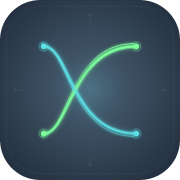
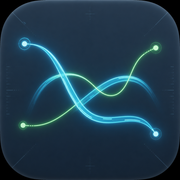
fix: 商标改用选定的 F 成图，不再用扁平矢量代替
登录页、favicon、README 直接用那张石板蓝 + 光纤光迹的成图。矢量稿画不出同样的光晕和丝束，观感对不上。

diff --git a/apps/web/src/components/WeaveMark.tsx b/apps/web/src/components/WeaveMark.tsx
@@ -30,7 +30,7 @@ export function WeaveIcon({ size = 56 }: { size?: number }) {
   return (
     <img
       className="weave-icon"
-      src="/brand/designweave.svg"
+      src="/brand/designweave.png"
       width={size}
       height={size}
       alt=""

diff --git a/README.md b/README.md
@@ -1,7 +1,7 @@
 # DesignWeave
 
 <p align="center">
-  <img src="branding/designweave.svg" width="128" height="128" alt="DesignWeave">
+  <img src="branding/icon-512.png" width="128" height="128" alt="DesignWeave">
 </p>
 
 给产品 / 设计 / 测试用的 Cursor。本机工作台：圈文档一块，说一句，AI 改 Markdown。人不用面对终端、源码树、prompt。
